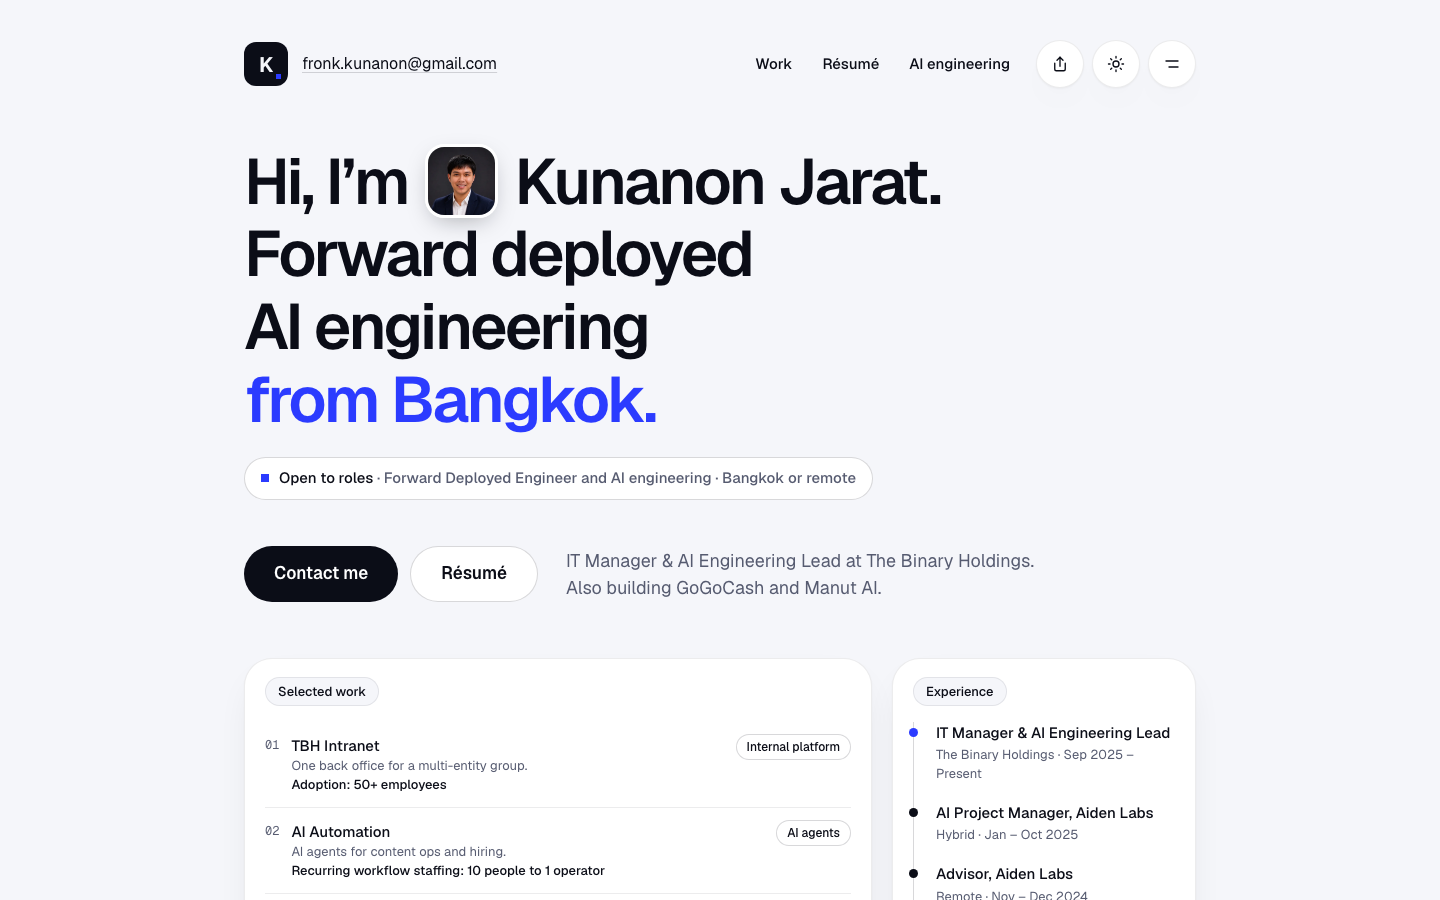
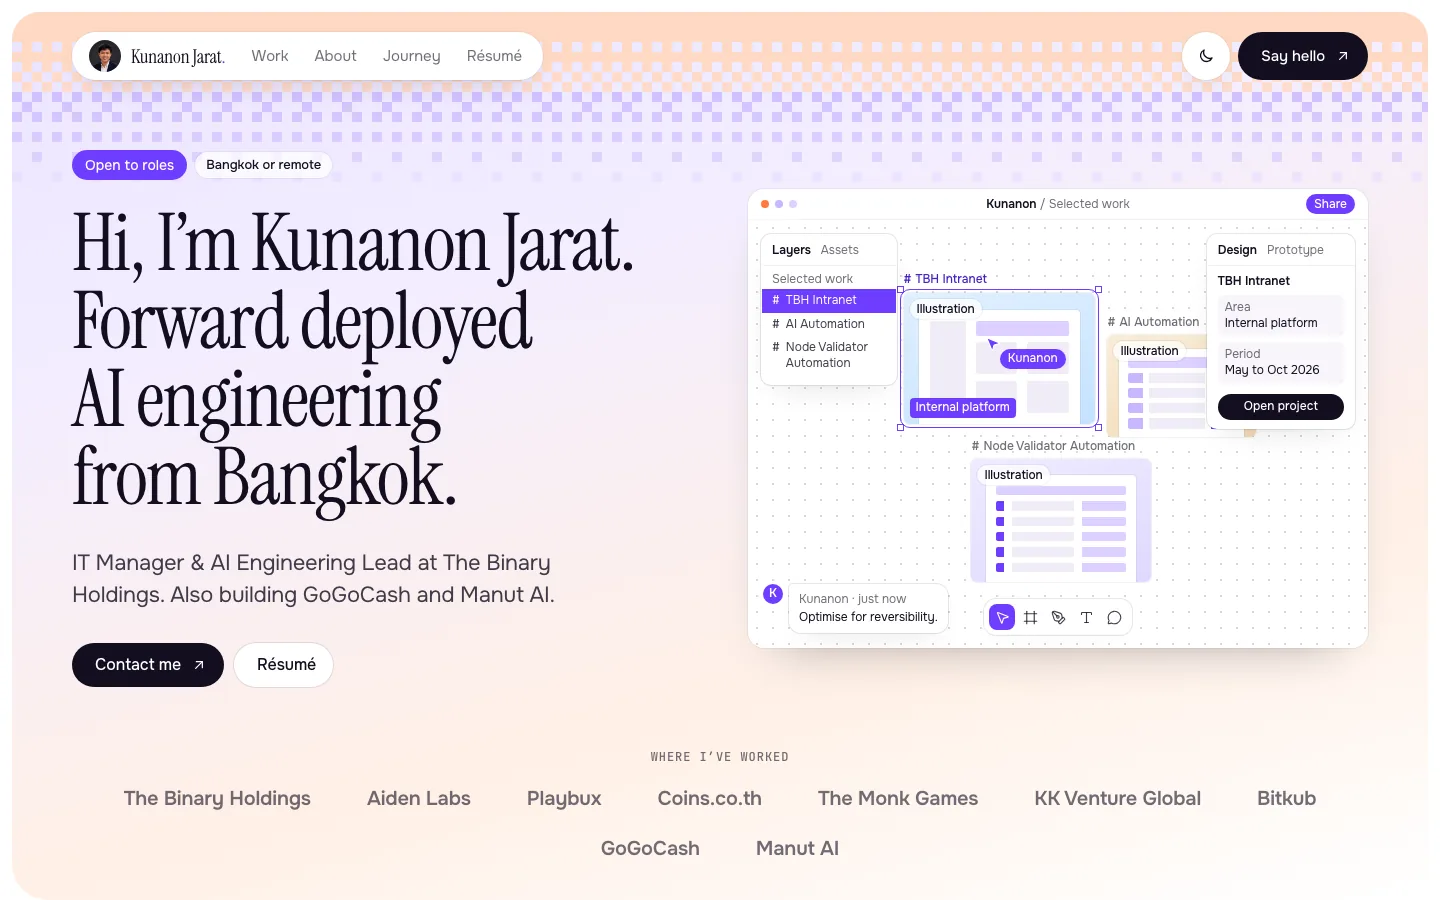
feat(profile): the kunanonj.com project shows the new Home (phase 8c)
Its cover was a screenshot of the earlier design's Home. Re-shot from the
live site at 1440 x 900 in the light theme, and its alt text now describes
what the image shows.

diff --git a/lib/content/portfolio.ts b/lib/content/portfolio.ts
@@ -779,7 +779,7 @@ const PORTFOLIO_PROJECTS: readonly PortfolioProject[] = [
     // Capture it again when Home changes.
     cover: {
       src: "/portfolio/kunanonj-com/cover.webp",
-      alt: "The Home page of kunanonj.com: the headline Forward deployed AI engineering from Bangkok, the Open to roles line, the Contact me and Résumé buttons, and the Selected work and Experience cards",
+      alt: "The Home page of kunanonj.com: the headline Hi, I’m Kunanon Jarat. Forward deployed AI engineering from Bangkok, the Open to roles and Bangkok or remote chips, the Contact me and Résumé buttons, a design canvas showing three selected projects, and the row of places he has worked",
       width: 1440,
       height: 900,
     },
